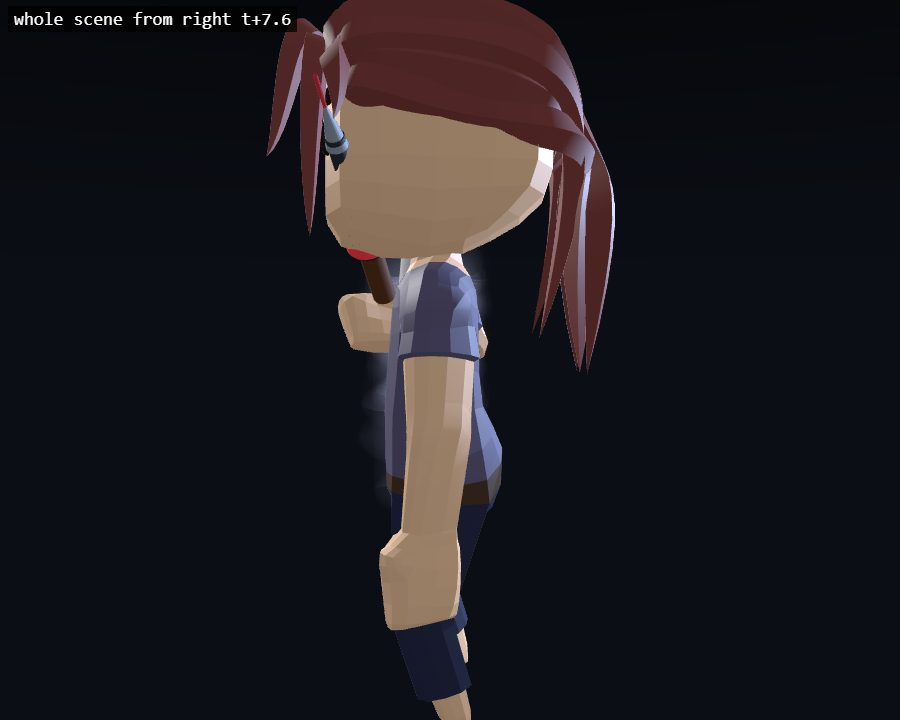
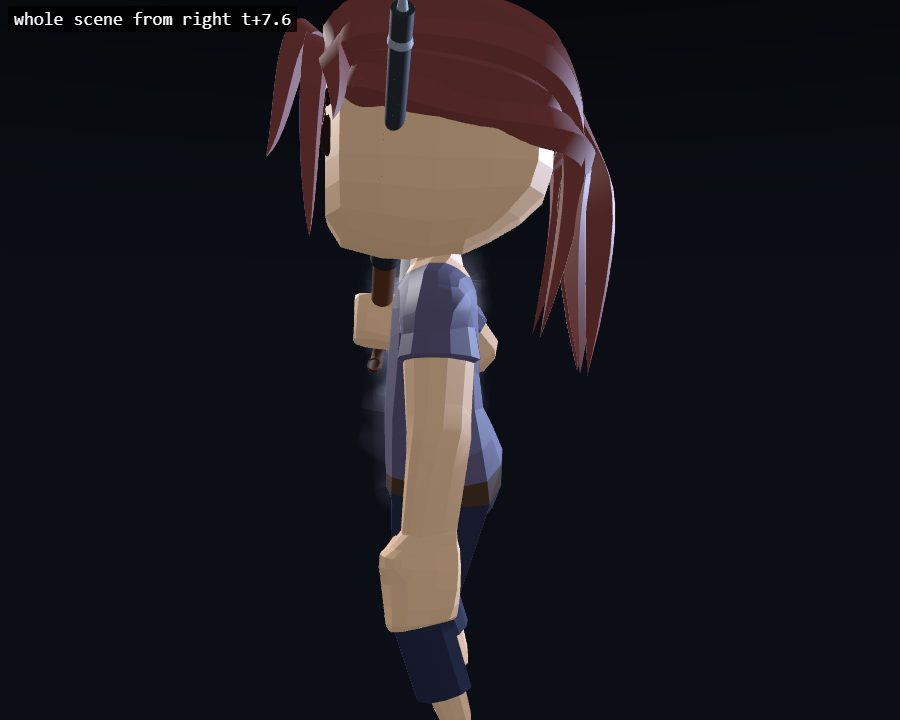
Qwen: 025-kasa-umbrella-flash round 3

diff --git a/src/effects/vignettes/q-umbrella.js b/src/effects/vignettes/q-umbrella.js
@@ -7,8 +7,9 @@
 // it started.
 //   Her right hand holds the handle the whole loop (grip is live even before she lifts it, so the palm always faces up
 //   the shaft) and hold hangs the umbrella from that palm, so the two cannot drift apart. The umbrella's pivot is the
-//   point she holds; the shaft goes up past her fist to the canopy, which leans 10° over her head and 29° toward the
-//   viewer: the shaft passes in front of her head, and the canopy's rim hangs just above her crown, covering it. Her
+//   point she holds; the shaft goes up past her fist to the canopy, which leans 15° in over her head and only 6°
+//   toward the viewer: the shaft passes beside her head, and the whole canopy sits above her crown - its lowest rim
+//   point 0.05u above the top of her head - so her face stays clear of it. Her
 //   fist owns the band -0.017u..-0.084u along the shaft round the pivot (its palm presses on the band's near face):
 //   the crook hangs off the band's far side and the wooden grip starts on the shaft's side, so no part of the umbrella
 //   is ever inside the hand it holds.
@@ -25,19 +26,20 @@ const N = 90;                                // raindrops in one draw call
 const K = 1.7;                                // the drops are drawn a little bigger than DROP's own size, so they read
 const FALL = 0.5;                             // a drop falls 1.5u in 0.5 s (a fall time that divides the loop)
 const SPEED = 1.5 / FALL;                     // u per second
-// the umbrella in its own frame: the pivot is the point her palm holds, the shaft runs up +y to the canopy. Her fist
+// the umbrella in its own frame: the pivot is the point her palm holds, the shaft runs up +y to the canopy, tall enough
+// that the open canopy clears her head (the rim's plane at +0.455, the ferrule tip at +0.545). Her fist
 // owns the band -0.017u..-0.084u along the shaft, so the handle is built outside it: the grip at +0.02..+0.13, the
 // crook's ring centred at -0.145, just clear of the fist's skin.
-const GRIP = 0.017, HOOK = -0.145, SHAFT = 0.20, TOP = 0.35, CAN = 0.33, CR = 0.30, CH = 0.09;
+const GRIP = 0.017, HOOK = -0.145, SHAFT = 0.42, TOP = 0.545, CAN = 0.50, CR = 0.33, CH = 0.09;
 // where she holds it up: heights above her feet, a little to her right, a little toward the viewer (all reachable)
-const HOLD = [-0.033, 0.69, 0.05];
-const rnd = (i, k) => ((i * 7919 + k * 104729) % 997) / 997;   // a fixed number per drop (pure, no Math.random)
+const HOLD = [-0.18, 0.74, 0.04];
+const rnd = (i, k) => { const s = Math.sin(i * 12.9898 + k * 78.233) * 43758.5453; return s - Math.floor(s); };   // a fixed number per drop and per slot (pure, no Math.random)
 
 function umbrella(u) {
   const g = new THREE.Group(); g.name = 'umbrella';
   const handle = solidProp([[G.torus(0.035 * u, 0.012 * u, Math.PI, 0, HOOK * u, 0, Math.PI), 0x4a2a18],  // the crook past her fist
     [G.cyl(GRIP * u, GRIP * u, 0.11 * u, 0, 0.075 * u, 0), 0x5a3620]], 0.3);   // the wooden grip, from the fist up to the shaft
-  const shaft = solidProp([[G.cyl(GRIP * 0.7 * u, GRIP * 0.7 * u, SHAFT * u, 0, 0.23 * u, 0), 0x30363e],
+  const shaft = solidProp([[G.cyl(GRIP * 0.7 * u, GRIP * 0.7 * u, SHAFT * u, 0, 0.34 * u, 0), 0x30363e],
     [G.cyl(GRIP * 1.25 * u, GRIP * 1.25 * u, 0.045 * u, 0, 0.15 * u, 0), 0x24292f],
     [G.cone(GRIP * 0.8 * u, 0.07 * u, 0, TOP * u, 0), 0x9aa4b4]], 0.25);   // the ferrule: its tip near the floor when it hangs
   const canopy = solidProp([[G.cone(CR * u, CH * u, 0, 0, 0), 0xd03040], [G.cyl(CR * 0.09 * u, CR * 0.06 * u, 0.05 * u, 0, CH * 0.6 * u, 0), 0xa02433]], 0.55);
@@ -55,8 +57,8 @@ function umbrellaScene(ctx, spec, stage) {
   const rain = many(DROP(u), N); rain.name = 'rain'; group.add(rain);
   group.add(who.group);
   const xs = [], zs = [], ph = [];
-  for (let i = 0; i < N; i++) { xs.push(X(0.05 + 1.2 * rnd(i, 1))); zs.push(-0.2 + 0.55 * rnd(i, 2)); ph.push(FALL * rnd(i, 3)); }
-  const loop = 8, W = new THREE.Vector3(), W2 = new THREE.Vector3(), W3 = new THREE.Vector3();
+  for (let i = 0; i < N; i++) { xs.push(X(0.05 + 1.1 * rnd(i, 1))); zs.push(-0.2 + 0.5 * rnd(i, 2)); ph.push(FALL * rnd(i, 3)); }
+  const loop = 8, W = new THREE.Vector3(), W2 = new THREE.Vector3(), W3 = new THREE.Vector3(), Q = new THREE.Quaternion();
   return {
     group,
     step(t) {
@@ -73,9 +75,9 @@ function umbrellaScene(ctx, spec, stage) {
       // the point her hand holds: her idle fist -> the point over her head, on the timeline (never on where the
       // umbrella ended up last frame, so the hand and the umbrella cannot drift away from each other)
       const P = who.fist('R', W).lerp(who.local(HOLD[0], HOLD[1], HOLD[2], W2), e);
-      umb.rotation.set(0.5 * e - 0.72 * (1 - e), 0, (Math.PI + 0.06) + e * (Math.PI - 0.23));   // hangs down in front of her feet -> swung up over her head
+      umb.rotation.set(0.10 * e - 1.1 * (1 - e), 0, (Math.PI + 0.06) + e * (Math.PI - 0.32));   // hangs down in front of her feet -> swung up over her head
       canopy.scale.set(0.10 + 0.90 * open, 1 + 1.2 * (1 - open), 0.10 + 0.90 * open);
-      canopy.position.y = lerp(0.24, CAN, open) * u;                          // closed it hangs along the shaft as a bundle
+      canopy.position.y = lerp(0.30, CAN, open) * u;                          // closed it hangs along the shaft as a bundle
       who.group.updateWorldMatrix(true, true);
       const toward = W3.set(0, 1, 0).applyEuler(umb.rotation);                 // up the shaft: the palm presses against it
       who.grip('R', P, toward, GRIP * u, 1, { out: 0.75, down: 0.4 });
@@ -83,18 +85,22 @@ function umbrellaScene(ctx, spec, stage) {
       who.group.updateWorldMatrix(true, true);
       // the rain: straight down; over the open canopy a drop stops at its surface and pops into a splash
       const rainK = between(v, 0.5, 0.8) * (1 - between(v, 6.4, 6.7));
-      const cp = group.worldToLocal(canopy.getWorldPosition(W)), R = CR * u * canopy.scale.x, h = CH * u * canopy.scale.y;
+      const sc = ADULT * u;                                  // the umbrella is built in her heights, so the rain needs its scale
+      const cp = group.worldToLocal(canopy.getWorldPosition(W));
+      const ax = W2.set(0, 1, 0).applyQuaternion(canopy.getWorldQuaternion(Q));   // the cone's axis, tilted with the umbrella
+      const R = CR * canopy.scale.x * sc, h = CH * canopy.scale.y * sc;
+      const b = W3.copy(cp).addScaledVector(ax, -h / 2);     // the middle of the rim (the low side of the tilted cone)
       const top = floor + 1.5 * u;
       for (let i = 0; i < N; i++) {
-        const d = Math.hypot(xs[i] - cp.x, zs[i] - cp.z);
-        const hit = open > 0.6 && d < R ? cp.y + h / 2 - (d / R) * h : floor;
+        const dx = xs[i] - b.x, dz = zs[i] - b.z, d = Math.hypot(dx, dz);
+        const hit = open > 0.6 && d < R ? b.y + ax.y * h * (1 - d / R) : floor;   // the canopy's surface above this drop
         const a = (v + ph[i]) % FALL;
         const y = top - SPEED * a;
         let k = rainK;
-        if (y <= hit) {                                       // landed on the canopy (or on the ground): a splash
-          const sp = (a - (top - hit) / SPEED) / 0.18;
-          k = hit > floor + 0.01 * u ? (sp < 1 ? rainK * (1 + 2 * sp) : 0) : 0;
-          rain.set(i, xs[i], hit + 0.02 * u * Math.max(0, sp), zs[i], pre ? 0 : k * K);
+        if (y <= hit) {                                       // landed on the canopy (or on the ground): a tiny, short splash
+          const sp = (a - (top - hit) / SPEED) / 0.12;
+          k = hit > floor + 0.01 * u ? (sp < 1 ? rainK * (1 + 0.4 * sp) * (1 - sp) : 0) : 0;
+          rain.set(i, xs[i], hit + 0.01 * u * sp, zs[i], pre ? 0 : k * K);
         } else rain.set(i, xs[i], y, zs[i], pre ? 0 : k * K);
       }
       rain.commit();
